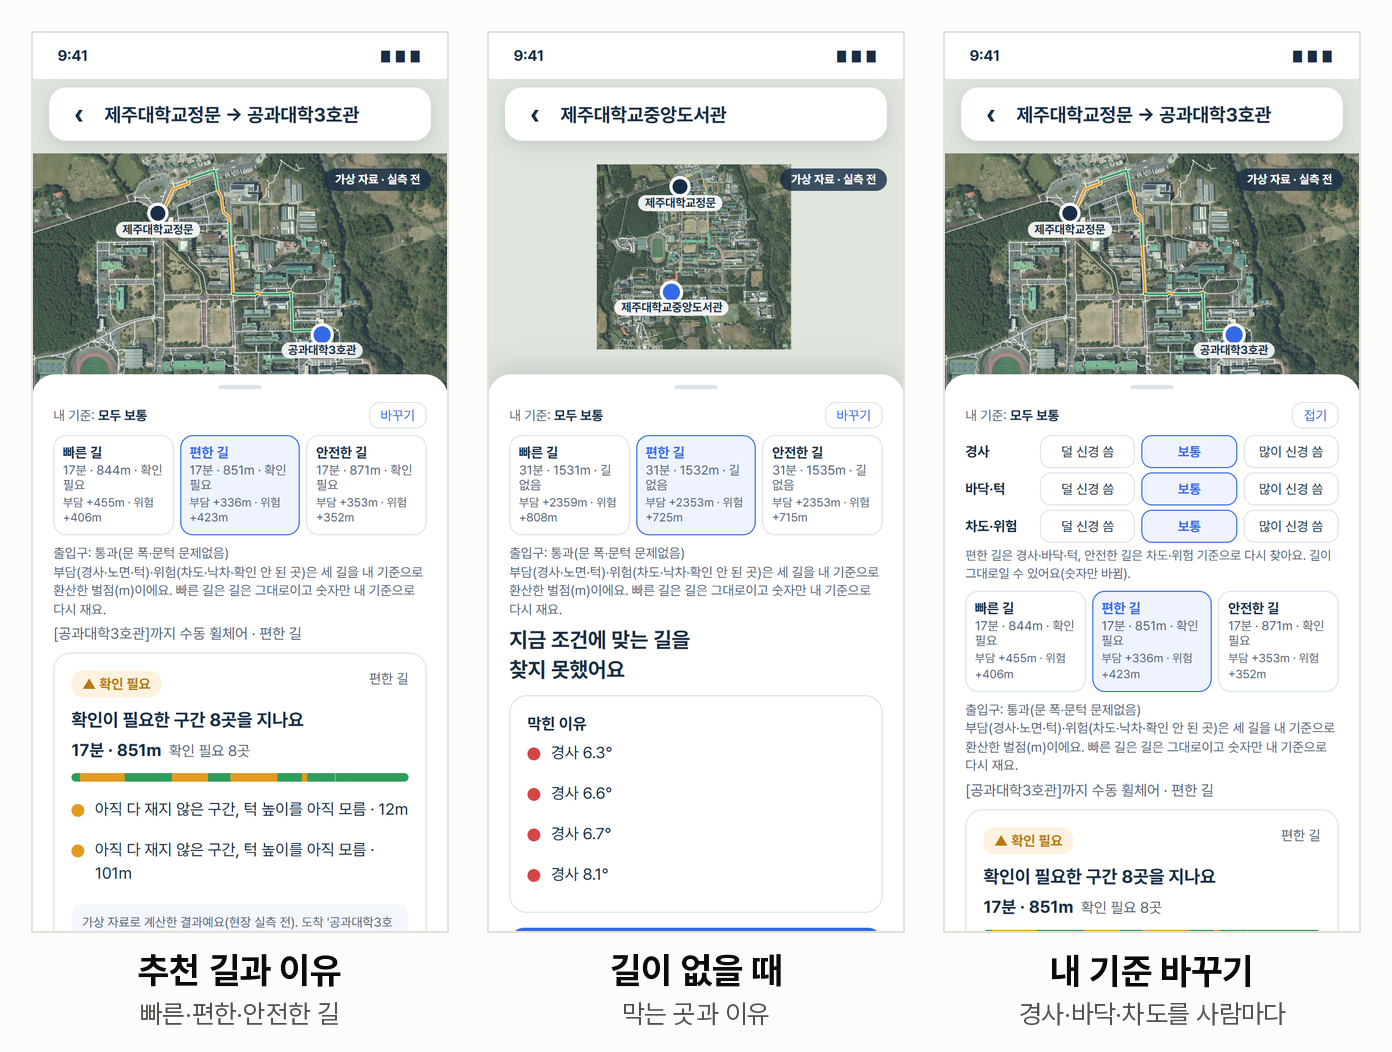
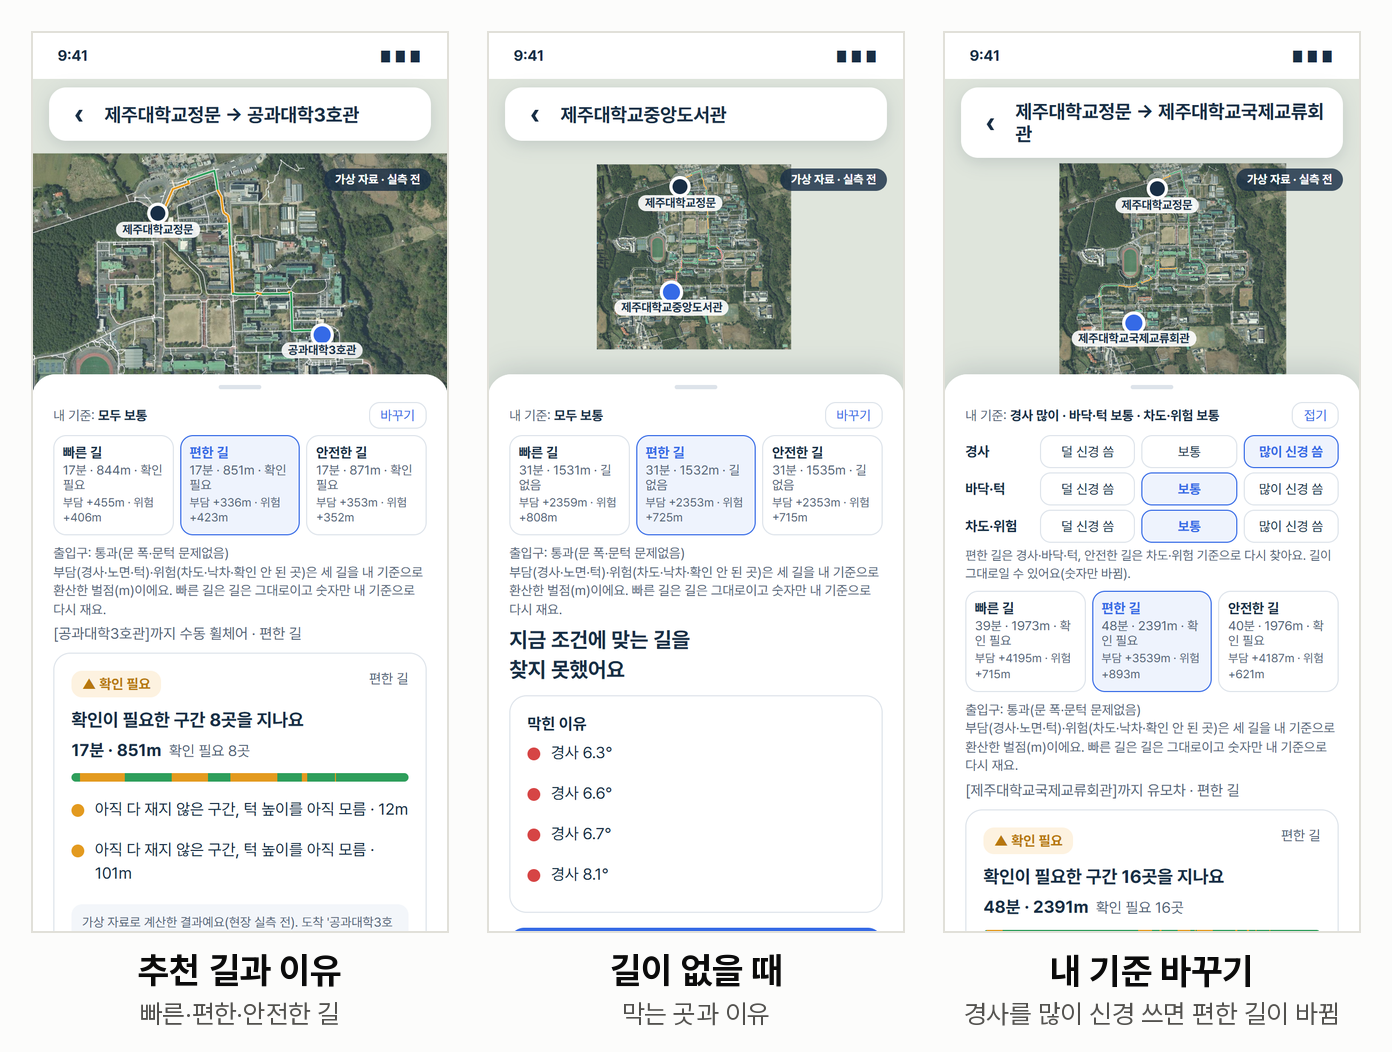
README: 점검 지적 반영(가상 값 범위, 길 찾는 순서, 그림 설명, 시험 숫자)
- 지금 상태 표에 경사 추정 방식·턱 자리 추정·가상 값 뜻, 거리뷰로 턱 자리만 확인한 점
- 길 찾는 3단계, 법 기준과 엔진 기준의 관계, 3D 그림 설명을 작품설명서 그림 3에 맞춤
- 내 기준 바꾸기 화면을 경사 '많이 신경 씀' 상태로 다시 찍음, 시험용 버튼·시험 자료 표시 설명
- 필요성 표현 다듬기, 시험 숫자의 Node.js 조건

diff --git a/README.md b/README.md
@@ -10,15 +10,15 @@
 
 ## 필요성
 
-거동이 불편한 지체·뇌병변 장애인은 약 135만 명(보건복지부 2025년 등록장애인 현황)이고, 장기요양 인정 노인은 약 123만 명으로 한 해 6% 늘었습니다(국민건강보험공단 2025 통계연보). 휠체어·유모차로 다니는 사람은 늘고 있지만, 이들을 위한 길 정보와 길 추천은 없습니다.
+지체·뇌병변 등록장애인은 약 135만 명(보건복지부 2025년 등록장애인 현황)이고, 장기요양 인정 노인은 약 123만 명으로 한 해 6% 늘었습니다(국민건강보험공단 2025 통계연보). 이동에 어려움이 있는 사람은 적지 않지만, 이들을 위한 길 정보와 길 추천은 찾기 어렵습니다.
 
-**1. 길 정보가 없습니다.** 교통약자법 시행규칙은 보행로의 턱을 2 cm 이하, 기울기를 1/12(약 4.8°) 이하로 정하고 있습니다. 휠체어는 이 기준을 넘는 턱이나 짧은 경사 하나에도 길이 끊길 수 있지만, 지도에는 이런 정보가 거의 없습니다.
+**1. 길 정보가 없습니다.** 교통약자법 시행규칙은 보도의 턱을 2 cm 이하로, 기울기를 원칙적으로 1/18(약 3.2°) 이하(어려운 곳은 1/12, 약 4.8°까지)로 정하고 있습니다. 휠체어는 이 기준을 넘는 턱이나 짧은 경사 하나에도 길이 끊길 수 있지만, 지도에는 이런 정보가 거의 없습니다.
 
 <img src="docs/images/need_osm.png" width="760" alt="제주민속촌 보행로 307구간 중 OpenStreetMap에 정보가 있는 구간: 앞뒤 경사 44구간(14.3%), 턱 높이 0, 좌우 기울기 0, 노면 상태 0">
 
 측량 자료(1:1,000 수치지형도)가 있는 제주대학교 캠퍼스도 턱의 위치만 알 수 있고 높이와 좌우 기울기는 없습니다. 이런 값은 cm 단위라 현장에서 재야만 알 수 있습니다.
 
-**2. 길 추천이 없습니다.** 지금 있는 서비스는 휠체어가 그 길을 지나갈 수 있는지 알려 주지 않습니다. 그래서 이용자는 가 보기 전에는 목적지까지 갈 수 있는지 알 수 없고, 막힌 곳에서 되돌아가야 합니다.
+**2. 길 추천이 없습니다.** 국내 일반 지도의 도보 길찾기와 무장애 여행 정보를 살펴보면, 지금 있는 서비스는 휠체어가 그 길을 지나갈 수 있는지 알려 주지 않습니다. 그래서 이용자는 가 보기 전에는 목적지까지 갈 수 있는지 알 수 없고, 막힌 곳에서 되돌아가야 합니다.
 
 | 지금 있는 서비스 | 알려 주는 것 | 알려 주지 않는 것 |
 |---|---|---|
@@ -32,20 +32,20 @@
 - 갈 수 없을 때는 막는 구간과 이유를 함께 보여 줍니다.
 - 결과를 가장 크게 바꾸는 구간부터 재도록 실측 순서를 정하고, 가상 값과 실측 값을 같은 형식으로 다뤄 실측이 쌓이면 결과가 바로 바뀌게 했습니다.
 
-대상지는 "대상 구역을 좁혀라"는 중간 발표 의견에 따라, 연계 기업이 휠체어 이용자와 시험했던 제주민속촌과 측정 앱을 바로 시험할 수 있는 제주대학교 캠퍼스 두 곳으로 정했습니다.
+대상지는 "대상 구역을 좁혀라"는 발표 때 받은 의견에 따라, 연계 기업이 휠체어 이용자와 시험했던 제주민속촌과 측정 앱을 바로 시험할 수 있는 제주대학교 캠퍼스 두 곳으로 정했습니다.
 
 ## 지금 상태 (2026-11-22)
 
 | 항목 | 제주대학교 | 제주민속촌 |
 |---|---|---|
 | 길 연결망·건물 | 국가 수치지도(1:1,000), OpenStreetMap, 지도에 없는 보행로는 항공사진을 보고 보탬 | 온라인 공개 정보로 만든 연결망 |
-| 앞뒤 경사 | 지도의 땅 높이로 추정 | 가상 값 |
-| 턱 | 자리는 1:1,000 지도의 실제 위치, 높이는 가상 값 | 가상 값 |
+| 앞뒤 경사 | 1:1,000 지도의 5 m 등고선 사이를 이어 추정(짧은 경사는 놓칠 수 있음) | 가상 값 |
+| 턱 | 자리는 1:1,000 지도의 인도 선 끝·끊긴 곳에서 추정, 높이는 가상 값(거리뷰 사진으로 턱이 보인 곳은 높이 '모름') | 가상 값 |
 | 좌우 기울기·노면·장애물 | 가상 값 | 가상 값 |
 | 현장 실측 | 측정 앱과 실측 도구로 현장 실측함. 실측 값은 아직 엔진에 넣지 않음 | 아직 안 함 |
 | 이용자 시험 | 아직 안 함 | 아직 안 함 |
 
-그래서 아래 화면과 결과는 실측 값이 아니라 위 값으로 계산한 것입니다. 앱 화면에는 '가상 자료 · 실측 전'을 표시합니다.
+'가상 값'은 실측 전에 엔진과 화면을 시험하려고 규칙에 따라 무작위로 정한 값입니다. 그래서 아래 화면과 결과는 실측 값이 아니라 위 값으로 계산한 것이고, 앱 화면에는 '가상 자료 · 실측 전'을 표시합니다.
 
 ## 구성
 
@@ -65,8 +65,8 @@
 
 - 교통약자법 시행규칙 기준(유효폭 1.2 m, 기울기 1/12, 좌우 기울기 1/25, 턱 2 cm, 틈 1 cm)으로 앞뒤 경사·좌우 기울기·턱·틈·폭·노면 등급을 재는 매뉴얼을 만들었습니다. 경사는 구간을 일정 간격으로 나눠 재고 3.2°를 넘는 곳은 더 재며, 턱은 13 mm 이상을 모두 적고 판정 경계(18\~22 mm)는 한 번 더 잽니다.
 - 실측 도구 10종(디지털 수평기·각도기, 워킹카운터, 줄자, 디지털 캘리퍼스 등)을 갖췄습니다.
-- 측정 앱은 지도에서 구간을 고르면 위치를 확인하고, 다음에 잴 지점을 안내하며, 값과 사진을 기록합니다. 통신이 끊겨도 값이 사라지지 않게 폰에 먼저 저장한 뒤 서버로 보내고, 안드로이드 앱으로도 감쌌습니다. 제주대학교 캠퍼스에서 현장 실측을 하며 고쳤습니다.
-- 위 화면은 개발 중인 판(0.4대)입니다. 링크한 측정 앱 저장소에는 아직 그 앞의 판(0.3.2)이 올라가 있습니다.
+- 측정 앱은 지도에서 구간을 고르면 위치를 확인하고, 다음에 잴 지점을 안내하며, 값과 사진 촬영 여부를 기록합니다(사진 파일은 정리 도구가 기록과 맞춤). 통신이 끊겨도 값이 사라지지 않게 폰에 먼저 저장한 뒤 서버로 보내고, 안드로이드 앱으로도 감쌌습니다. 제주대학교 캠퍼스에서 현장 실측을 하며 고쳤습니다.
+- 위 화면은 개발 중인 판(0.4대)이라 '시험 자료' 표시가 붙어 있습니다. 링크한 측정 앱 저장소에는 아직 그 앞의 판(0.3.2)이 올라가 있습니다.
 
 ### 2. 정리: 측정 기록을 경로 입력으로
 
@@ -77,27 +77,27 @@
 
 <img src="docs/images/feat_find.png" width="760" alt="추천 앱 화면 세 개: 이동 유형 선택, 제주대 지도와 시설, 목적지 고르기">
 
-<img src="docs/images/feat_result.png" width="760" alt="추천 앱 화면 세 개: 정문에서 공과대학3호관까지 추천 길과 이유, 정문에서 중앙도서관까지 길이 없을 때 막힌 이유(경사), 경사·바닥·차도 기준을 사람마다 바꾸는 화면">
+<img src="docs/images/feat_result.png" width="760" alt="추천 앱 화면 세 개: 정문에서 공과대학3호관까지 추천 길과 이유, 정문에서 중앙도서관까지 길이 없을 때 막힌 이유(경사), 국제교류회관까지 유모차로 갈 때 경사를 많이 신경 쓰도록 바꿔 편한 길이 길어진 화면">
 
 - 이동 유형과 목적지를 고르면 경로 엔진이 빠른 길·편한 길·안전한 길 세 가지를 찾아 이유와 함께 보여 줍니다. 판정 기준은 아래 [경로를 고르는 방법](#경로를-고르는-방법)에 있습니다.
-- 갈 수 있는 길이 없으면 조건을 몰래 낮추지 않고, 막는 곳과 이유(예: 경사 6.3°)를 알려 줍니다.
-- 경사·바닥·차도 기준을 사람마다 바꾸면 앱 안에서 길을 다시 계산합니다.
+- 갈 수 있는 길이 없으면 조건을 몰래 낮추지 않고, 막는 곳과 이유(예: 경사 6.3°)를 알려 줍니다. 이때 함께 나오는 거리(예: 1,531 m)는 막힌 구간이 가장 적은 길의 길이입니다.
+- 경사를 '많이 신경 씀'으로 바꾸면 편한 길을 다시 찾습니다(예: 국제교류회관까지 유모차 1,973 m → 2,391 m).
 
 ### 4. 가기: 따라가기와 막힘 신고
 
 <img src="docs/images/feat_go.png" width="500" alt="추천 앱 화면 두 개: 항공사진 위에서 다음 구간을 안내하는 따라가기, 막힌 곳을 신고하는 화면">
 
-- 다음 구간을 안내하고, 현장에서 막힌 곳을 신고할 수 있습니다(시제품에서는 신고를 저장하지 않습니다).
+- 다음 구간을 안내하고, 현장에서 막힌 곳을 신고할 수 있습니다. 시제품에서는 '다음 구간으로 (시험용)' 버튼으로 이동을 흉내 내고(위치를 따라가는 기능은 아직 없음), 신고는 저장하지 않습니다.
 - 추천 앱은 엔진 결과를 넣어 만든 웹 시제품이며, 지도 자료가 함께 들어 있어 이 저장소에는 넣지 않았습니다.
 
 ### 5. 3D로 확인하고 먼저 잴 곳 고르기
 
 <img src="docs/images/jejunu_3d_route.jpg" width="560" alt="제주대학교 3D 맵 위에 경로 엔진이 찾은 경로를 색 띠로 칠한 그림. 위는 전체, 아래는 세부">
 
-국가 공개 지도로 만든 제주대학교 3D 맵 위에 경로 엔진이 찾은 경로를 칠한 그림입니다. 파랑은 갈 수 있음, 주황은 확인 필요, 끊어 그린 빨강은 막힘입니다(위: 전체, 아래: 세부, 2026-11-15 가상 값 기준).
+국가 공개 지도로 만든 제주대학교 3D 맵 위에 정문에서 연구센터(줄기세포연구센타)까지 전동 휠체어로 찾은 경로를 칠한 그림입니다. 파랑은 갈 수 있음, 끊어 그린 빨강은 막힘(가상 턱 높이 141 mm)입니다(위: 전체, 아래: 세부, 2026-11-15 기준).
 
-- 3D 맵 위에서 다시 잰 값이 경로 입력과 맞는지 확인했습니다(앞뒤 경사는 두 대상지 모두 60/60지점, 제주민속촌 턱 46/46개).
-- 막힘·불확실 구간을 하나씩 '재 보니 문제없음'으로 바꿔 다시 계산해, 결과가 가장 많이 좋아지는 구간부터 재도록 순서를 매깁니다(`DataPrep/measure_priority.py`). 2026-11-15 기준으로 제주대학교는 정문 옆 턱 구간 하나에 목적지 결과 28건이 달려 있었습니다.
+- 3D 모형이 경로 입력의 값대로 만들어졌는지 3D 위에서 다시 재어 확인했습니다(무작위 60지점, 허용 오차 ±0.3°·±2 mm: 앞뒤 경사는 두 대상지 모두 60/60지점, 제주민속촌 턱 46/46개).
+- 막힘·불확실 구간을 하나씩 '재 보니 문제없음'으로 바꿔 다시 계산해, 결과가 가장 많이 좋아지는 구간부터 재도록 순서를 매깁니다(`DataPrep/measure_priority.py`). 2026-11-15 기준으로 제주대학교는 정문 옆 턱 구간 하나(가상 턱 높이 141 mm)에 목적지 결과 28건이 달려 있었습니다.
 
 ## 경로를 고르는 방법
 
@@ -112,23 +112,26 @@
    | 틈 (진행 방향과 나란한 것) | 10\~13 mm | 13 mm 초과 (틈을 피해 남는 폭이 80 cm 이상이면 막지 않음) |
    | 계단 · 못 감 구간 · 끊긴 길 · 출입 금지 · 길이 아닌 곳 | | 막힘 |
    | 노면 '못 감' 등급 | 실측 기록은 밀어 보기로 확인하기 전까지 불확실 | 수동 휠체어 막힘 |
-   | 턱·틈 높이를 모르는 곳, 아직 다 재지 못한 구간 | 불확실 | |
+   | 턱 높이·틈 폭을 모르는 곳, 아직 다 재지 못한 구간 | 불확실 | |
 
-3. **추천 길 세 가지**: 다익스트라 알고리즘으로 아래 세 길을 찾습니다. 각 항목의 부담은 '더 걷는 미터'로 바꿔 거리에 더하고, 이동 유형마다 배수를 다르게 둡니다(`DataPrep/route_weights.json`).
+   법 기준(턱 2 cm 등) 근처의 값은 '불확실'로, 그보다 확실히 큰 값은 '막힘'으로 둡니다. 틈 13 mm는 미국 장애인법(ADA) 기준입니다.
+
+3. **길 찾는 순서**: 먼저 '갈 수 있음' 구간만으로 길을 찾고, 없으면 '불확실' 구간까지 넣어 '확인 필요'로 표시합니다. 그래도 없으면 막힌 구간이 가장 적은 길과 막힌 이유를 돌려줍니다.
+4. **추천 길 세 가지**: 다익스트라 알고리즘으로 아래 세 길을 찾습니다. 각 항목의 부담은 '더 걷는 미터'로 바꿔 거리에 더하고, 이동 유형마다 배수를 다르게 둡니다(`DataPrep/route_weights.json`).
    - 빠른 길: 거리만 봅니다.
    - 편한 길: 앞뒤 경사, 좌우 기울기, 거친 노면, 낮은 턱, 좁은 길, 쉴 곳 없는 긴 오르막을 피합니다.
    - 안전한 길: 차량과 함께 쓰는 길, 낙차 옆, 차량 진출입부, 확인 안 된 구간을 피합니다.
-4. **결과 설명**: 길마다 판정 이유(예: "앞뒤 5.2°", "계단")와 부담 항목을 함께 내고, 갈 수 있는 길이 없으면 어느 구간이 왜 막혔는지 냅니다. 앱 화면은 이 결과를 문장으로 바꿔 보여 줍니다.
-5. **사람마다 조절**: 앱에서 경사 / 바닥·턱 / 차도·위험을 각각 '덜 신경 씀 · 보통 · 많이 신경 씀'(배수 0.5 · 1 · 2)으로 고르면, 편한 길과 안전한 길을 그 사람 기준으로 다시 찾습니다. 앱 안 길찾기(`app/router.js`)는 파이썬 엔진과 같은 방식으로 계산하고, 같은 결과가 나오는지 시험으로 확인합니다(`DataPrep/tests/test_router_js.py`).
+5. **결과 설명**: 길마다 판정 이유(예: "앞뒤 5.2°", "계단")와 부담 항목을 함께 내고, 갈 수 있는 길이 없으면 어느 구간이 왜 막혔는지 냅니다. 앱 화면은 이 결과를 문장으로 바꿔 보여 줍니다.
+6. **사람마다 조절**: 앱에서 경사 / 바닥·턱 / 차도·위험을 각각 '덜 신경 씀 · 보통 · 많이 신경 씀'(배수 0.5 · 1 · 2)으로 고르면, 편한 길과 안전한 길을 그 사람 기준으로 다시 찾습니다. 앱 안 길찾기(`app/router.js`)는 파이썬 엔진과 같은 방식으로 계산하고, 같은 결과가 나오는지 시험으로 확인합니다(`DataPrep/tests/test_router_js.py`).
 
 엔진은 대상지와 상관없이 같은 형식의 파일 세 개(구간표, 시설 목록, 경로 입력)를 받습니다. 측정 앱으로 실제 값을 재면 경로 입력 파일만 바꾸면 되도록 만들었습니다.
 
 ## 대상지
 
-- **제주대학교 (현실 3D)**: 국가 공개 수치지도(1:1,000·1:5,000)와 OpenStreetMap으로 길 연결망과 3D 맵을 만들었습니다. 지도에서 얻지 못한 값(일부 경사·장애물 등)은 가상 값으로 채웠습니다.
+- **제주대학교 (현실 3D)**: 국가 공개 수치지도(1:1,000·1:5,000)와 OpenStreetMap으로 길 연결망과 3D 맵을 만들었습니다. 지도에서 얻지 못한 값(턱 높이·좌우 기울기·노면·장애물 대부분)은 가상 값으로 채웠습니다. 2026년 11월 22일에는 거리뷰 사진으로 길이 지나는 턱 자리를 눈으로 확인했고, 높이는 사진으로 잴 수 없어 '모름'(불확실)으로 두었습니다.
 - **제주민속촌 (가상 3D)**: 실측 전이라, 길 연결망 위에 경사·턱·장애물을 가상 값으로 넣은 3D 세계를 만들고 엔진과 측정 기록 처리 과정을 시험했습니다.
 
-자료 출처
+**자료 출처**
 
 - 길 연결망·건물·땅 높이: 국토지리정보원 수치지도(1:1,000·1:5,000)
 - 3D 맵 바닥 항공사진과 일부 건물: 브이월드(국토교통부 공간정보 오픈플랫폼)
@@ -149,7 +152,7 @@
 
 | 이름 | 맡은 일 |
 |---|---|
-| 강승준 (팀장) | 전체 총괄, AI 학습 기반 경로 고도화, 3D 검증 환경 |
+| 강승준 (팀장) | 전체 총괄, 3D 검증 환경, AI 학습 기반 경로 고도화(예정) |
 | 이은 | 경로 알고리즘(접근성 속성·비용함수 설계, 경로 산출 엔진), 앱 화면 설계 |
 | 양인권 | 측정 매뉴얼과 현장 실측 총괄, 실측 도구 관리, 측정 기록 정리 |
 | 염지석 | 측정 앱과 동선 추천 앱 개발 |
@@ -190,8 +193,8 @@ python -m pytest DataPrep/jejunu/tests
 ```
 
 이 저장소에는 코드만 있습니다. 지도·항공사진·측정 기록·결과 파일은 자료마다 이용 조건이 있어 넣지 않았고, 코드는 팀 PC의 자료 위치를 가리킵니다. 그래서 자료 파일이 필요 없는 시험(판정·가중치 계산·앱 길찾기 반례 등)만 이 저장소만으로 돌아갑니다. 2026-11-22 기준 결과는 아래와 같습니다.
-- `DataPrep/tests`: 자료가 없는 PC에서 184개가 통과하고, 나머지는 자료 파일이 없어 실패합니다. `test_router_js.py`는 Node.js가 있어야 돌고, 없으면 그중 13개를 건너뜁니다.
-- `DataPrep/jejunu/tests`: 시작할 때 팀 PC의 자료 파일을 읽어서, 자료가 없는 PC에서는 돌지 않습니다. 팀 PC에서는 33개가 통과합니다.
+- `DataPrep/tests`: 자료가 없는 PC에서 Node.js가 있으면 184개가 통과하고(없으면 173개 통과, `test_router_js.py`의 13개 건너뜀), 나머지는 자료 파일이 없어 실패합니다.
+- `DataPrep/jejunu/tests`: 시작할 때 팀 PC의 자료 파일을 읽어서, 자료가 없는 PC에서는 돌지 않습니다. 팀 PC에서는 33개가 통과합니다(공개본에 없는 결과 파일이 필요한 몇 개는 실패).
 - 두 시험 폴더에 이름이 같은 시험 파일이 있어 폴더마다 따로 돌립니다.
 
 ## 앞으로
